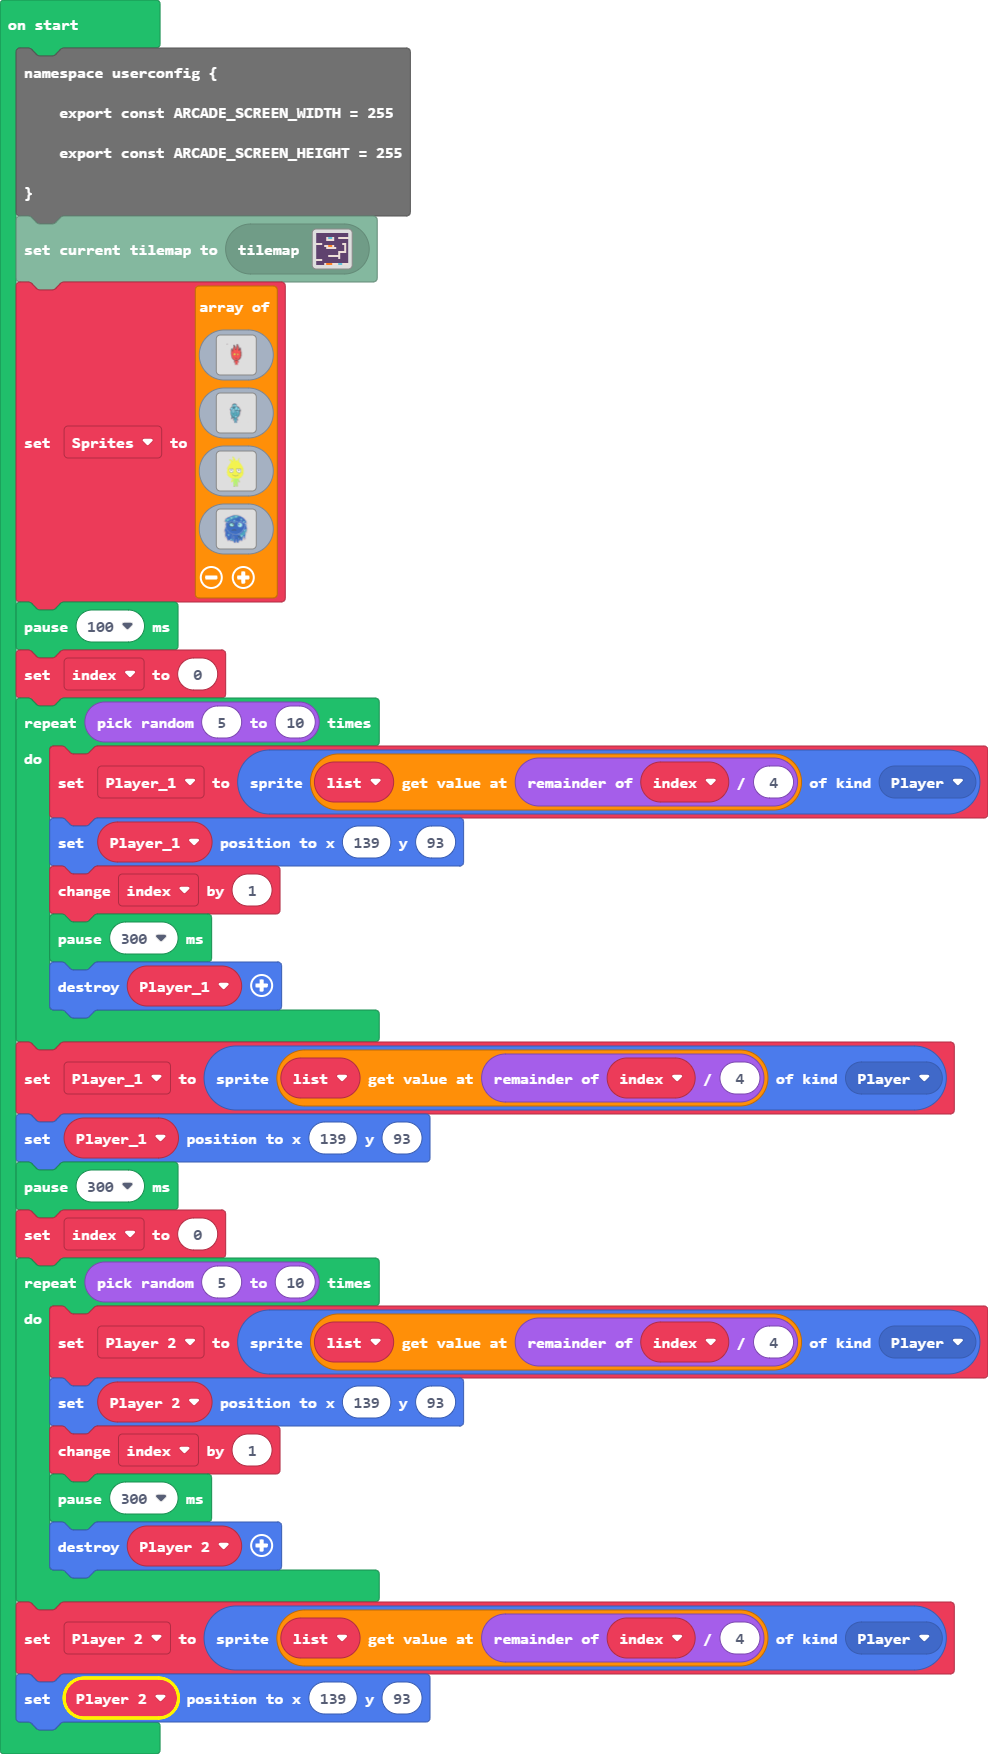
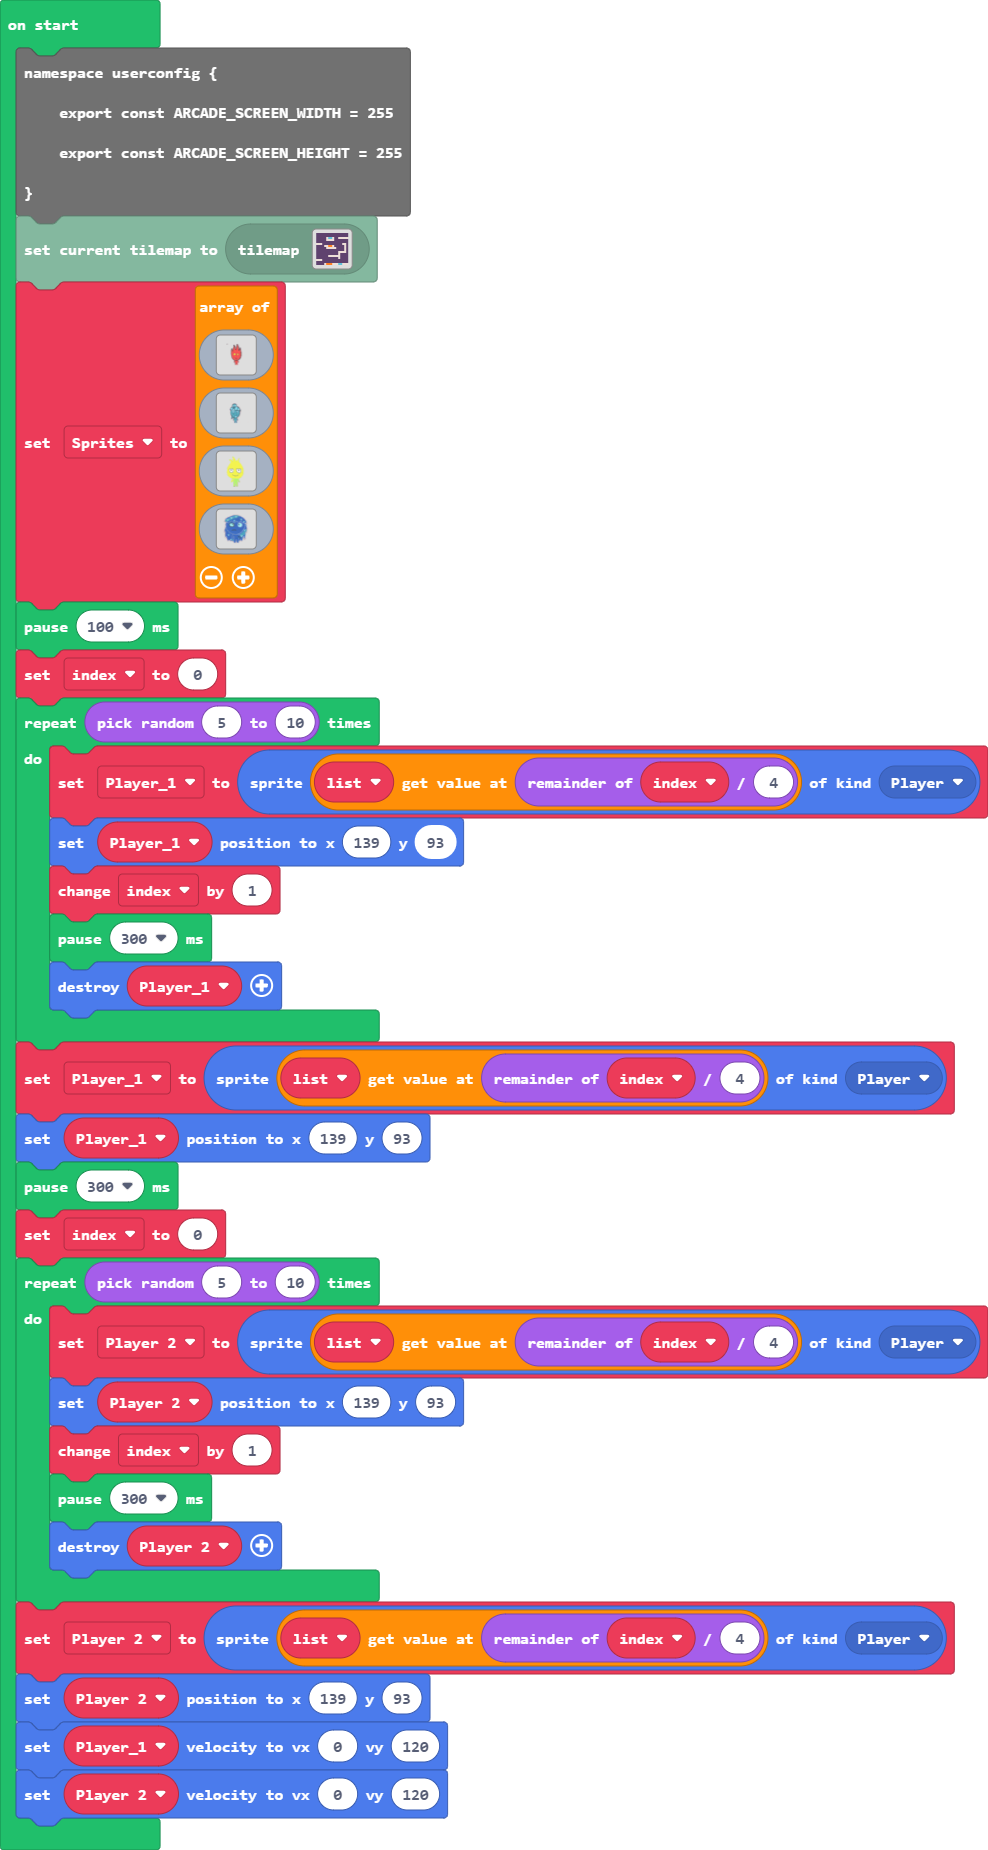
Update main.blocks, main.ts

diff --git a/main.ts b/main.ts
@@ -507,3 +507,5 @@ for (let index2 = 0; index2 < randint(5, 10); index2++) {
 }
 Player_2 = sprites.create(list[index % 4], SpriteKind.Player)
 Player_2.setPosition(139, 93)
+Player_1.setVelocity(0, 120)
+Player_2.setVelocity(0, 120)
